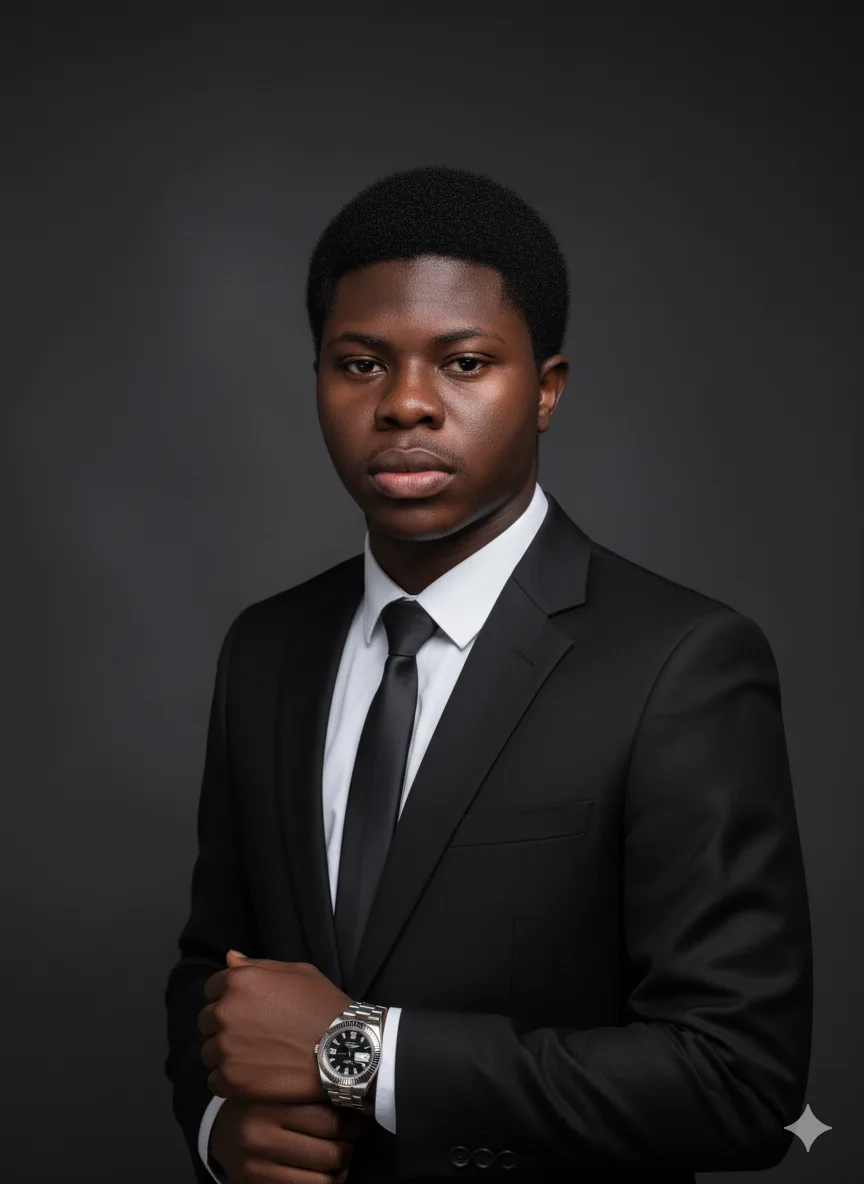
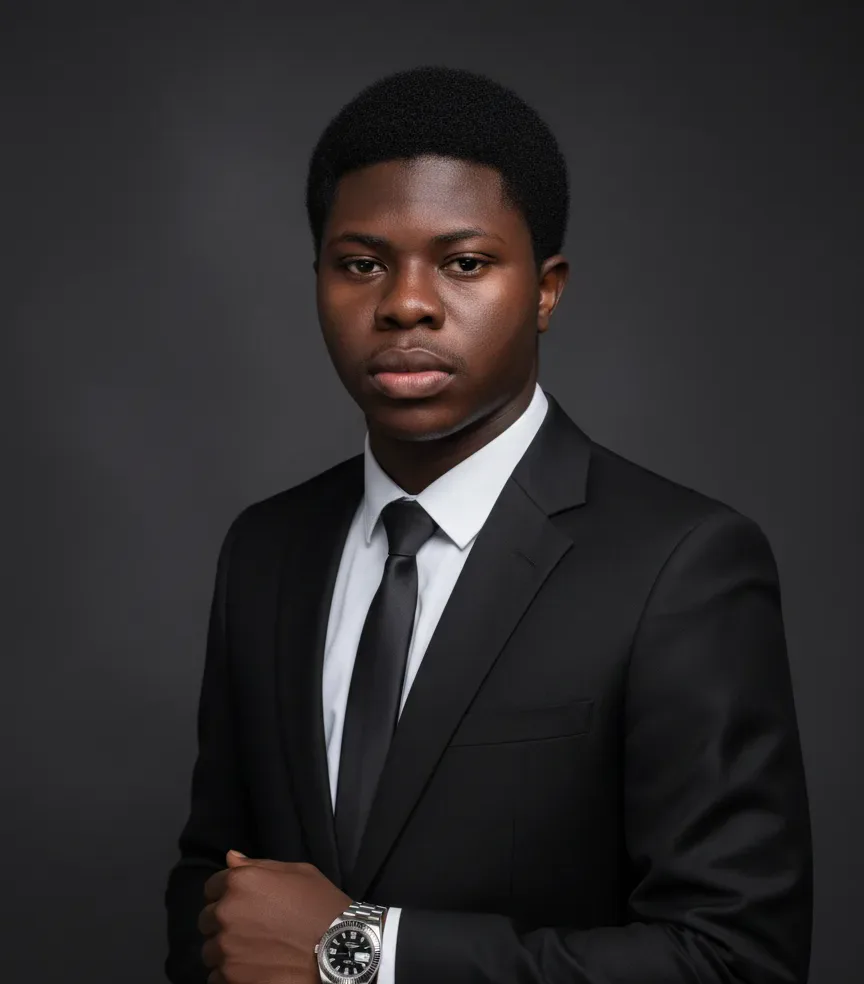
Amélioration de la présentation et du référencement
- Photo de profil recadrée (suppression du filigrane)
- Ajout d'une accroche sous le nom
- Suppression de la date de naissance et de l'âge
- Stack regroupée par domaine (Front-end, Back-end, Mobile & Design)
- Titre, description et balises Open Graph pour le partage

diff --git a/src/app/app.component.html b/src/app/app.component.html
@@ -56,7 +56,7 @@
           <div class="avatar centered">
             <img
               src="img/header/profil.webp"
-              alt=""
+              alt="Nabil Adamou"
               style="
                 width: 600px;
                 height: 600px;
@@ -66,6 +66,7 @@
             />
           </div>
           <h3 class="centered"><span>Nabil</span> ADAMOU</h3>
+          <p class="centered tagline">Ingénieur logiciel · Full-Stack &amp; Mobile</p>
           <p class="centered margins-bot intro_text">
             Disponible pour des missions freelance. <br>
             <a href="#contact" class="anchor">Me contacter</a>
@@ -134,13 +135,7 @@
                 <p>Nom : <span>Nabil Adamou</span></p>
               </li>
               <li>
-                <p>Date de naissance : <span>20 juin 2005</span></p>
-              </li>
-              <li>
                 <p>Langues : <span>Français, Anglais</span></p>
-              </li>
-              <li>
-                <p>Âge : <span>21 ans</span></p>
               </li>
               <li>
                 <p>Nationalité : <span>Togolaise</span></p>
@@ -212,54 +207,59 @@
           <div class="section_title">
             <h3>Ma stack</h3>
           </div>
-          <div class="clients_wrapper">
+          <h4 class="stack_group_title">Front-end</h4>
+          <div class="clients_wrapper stack_group cols_3">
             <ul>
-              <li>
-                <a href="https://tailwindcss.com/">
-                  <img
-                    src="img/clients/tailwindcss-ar21.svg"
-                    alt="tailwindcss"
-                  />
-                </a>
-              </li>
-              <li>
-                <a href="https://www.figma.com/">
-                  <img src="img/clients/figma-ar21~bgwhite.svg" alt="figma" />
-                </a>
-              </li>
-              <li>
-                <a href="https://vuejs.org/">
-                  <img src="img/clients/vuejs-ar21~bgwhite.svg" alt="vuejs" />
-                </a>
-              </li>
-              <li>
-                <a href="https://angular.io/">
-                  <img src="img/clients/angular-ar21.svg" alt="angular" />
-                </a>
-              </li>
-              <li>
-                <a href="https://flutter.dev/">
-                  <img src="img/clients/flutterio-ar21.svg" alt="flutter" />
-                </a>
-              </li>
-              <li>
-                <a href="https://symfony.com/">
-                  <img
-                    src="img/clients/symfony-ar21~bgwhite.svg"
-                    alt="symfony"
-                  />
-                </a>
-              </li>
-              <li>
-                <a href="https://www.djangoproject.com/">
-                  <img src="img/clients/djangoproject-ar21.svg" alt="django" />
-                </a>
-              </li>
-              <li>
-                <a href="https://spring.io/">
-                  <img src="img/clients/springio-ar21.svg" alt="spring Boot" />
-                </a>
-              </li>
+                <li>
+                  <a href="https://angular.dev/" target="_blank" rel="noopener" title="Angular">
+                    <img src="img/clients/angular-ar21.svg" alt="Angular" />
+                  </a>
+                </li>
+                <li>
+                  <a href="https://vuejs.org/" target="_blank" rel="noopener" title="Vue.js">
+                    <img src="img/clients/vuejs-ar21~bgwhite.svg" alt="Vue.js" />
+                  </a>
+                </li>
+                <li>
+                  <a href="https://tailwindcss.com/" target="_blank" rel="noopener" title="Tailwind CSS">
+                    <img src="img/clients/tailwindcss-ar21.svg" alt="Tailwind CSS" />
+                  </a>
+                </li>
+            </ul>
+          </div>
+          <h4 class="stack_group_title">Back-end</h4>
+          <div class="clients_wrapper stack_group cols_3">
+            <ul>
+                <li>
+                  <a href="https://spring.io/" target="_blank" rel="noopener" title="Spring Boot">
+                    <img src="img/clients/springio-ar21.svg" alt="Spring Boot" />
+                  </a>
+                </li>
+                <li>
+                  <a href="https://www.djangoproject.com/" target="_blank" rel="noopener" title="Django">
+                    <img src="img/clients/djangoproject-ar21.svg" alt="Django" />
+                  </a>
+                </li>
+                <li>
+                  <a href="https://symfony.com/" target="_blank" rel="noopener" title="Symfony">
+                    <img src="img/clients/symfony-ar21~bgwhite.svg" alt="Symfony" />
+                  </a>
+                </li>
+            </ul>
+          </div>
+          <h4 class="stack_group_title">Mobile &amp; Design</h4>
+          <div class="clients_wrapper stack_group cols_2">
+            <ul>
+                <li>
+                  <a href="https://flutter.dev/" target="_blank" rel="noopener" title="Flutter">
+                    <img src="img/clients/flutterio-ar21.svg" alt="Flutter" />
+                  </a>
+                </li>
+                <li>
+                  <a href="https://www.figma.com/" target="_blank" rel="noopener" title="Figma">
+                    <img src="img/clients/figma-ar21~bgwhite.svg" alt="Figma" />
+                  </a>
+                </li>
             </ul>
           </div>
         </section>

diff --git a/src/index.html b/src/index.html
@@ -2,12 +2,22 @@
 <html lang="fr">
 <head>
   <meta charset="utf-8">
-  <title>Wizarddev | Portfolio</title>
+  <title>Nabil Adamou | Ingénieur logiciel Full-Stack &amp; Mobile</title>
   <base href="/">
   <link rel="icon" type="image/x-icon" href="favicon.ico">
 
-  <meta name="description" content="Portfolio de Wizarddev">
-  <meta name="author" content="Wizarddev">
+  <meta name="description" content="Portfolio de Nabil Adamou (Wizarddev), ingénieur logiciel Full-Stack et Mobile basé à Lomé : Angular, Spring Boot, Django, Flutter. Disponible pour des missions freelance.">
+  <meta name="author" content="Nabil Adamou">
+  <meta name="theme-color" content="#3452ff">
+
+  <!-- Open Graph (LinkedIn, WhatsApp, Facebook...) -->
+  <!-- Une fois le site en ligne, remplacer og:image par l'URL complète (https://votre-domaine/img/og-image.jpg) et ajouter og:url -->
+  <meta property="og:type" content="website">
+  <meta property="og:locale" content="fr_FR">
+  <meta property="og:title" content="Nabil Adamou | Ingénieur logiciel Full-Stack &amp; Mobile">
+  <meta property="og:description" content="Portfolio de Nabil Adamou (Wizarddev), ingénieur logiciel Full-Stack et Mobile basé à Lomé : Angular, Spring Boot, Django, Flutter. Disponible pour des missions freelance.">
+  <meta property="og:image" content="img/og-image.jpg">
+  <meta name="twitter:card" content="summary">
 
   <meta name="viewport" content="width=device-width, initial-scale=1">
 

diff --git a/src/app/app.component.css b/src/app/app.component.css
@@ -19,4 +19,44 @@
   filter: brightness(0) invert(1);
 }
 
+/* Tagline under the name */
+.tagline {
+  color: var(--mc);
+  font-weight: 500;
+  font-size: 17px;
+  letter-spacing: 0.5px;
+  margin: -10px auto 15px;
+}
+
+/* Stack grouped by domain */
+.stack_group_title {
+  margin: 0 0 12px;
+  font-size: 14px;
+  font-weight: 600;
+  text-transform: uppercase;
+  letter-spacing: 1px;
+  color: #999;
+}
+:host-context(.light) .stack_group_title {
+  color: #555;
+}
+.stack_group {
+  margin-bottom: 30px;
+}
+.stack_group ul li {
+  height: 150px;
+  line-height: 150px;
+}
+.stack_group.cols_3 ul li {
+  width: 33.3333%;
+}
+.stack_group.cols_2 ul li {
+  width: 50%;
+}
+@media (max-width: 600px) {
+  .stack_group.cols_3 ul li,
+  .stack_group.cols_2 ul li {
+    width: 50%;
+  }
+}
 
